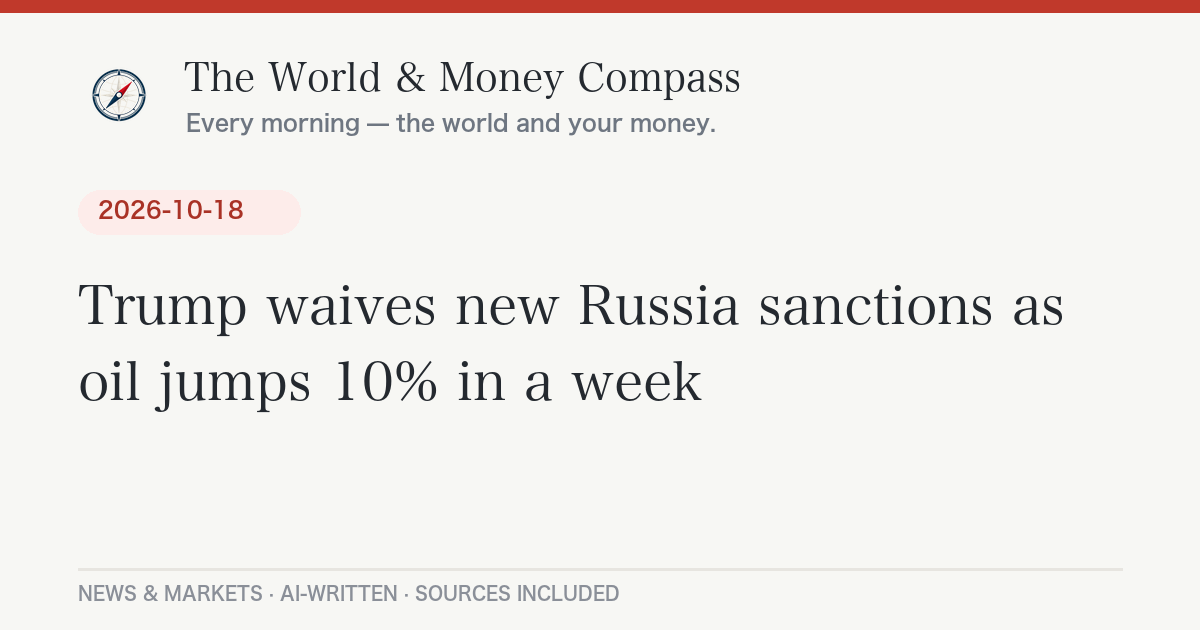
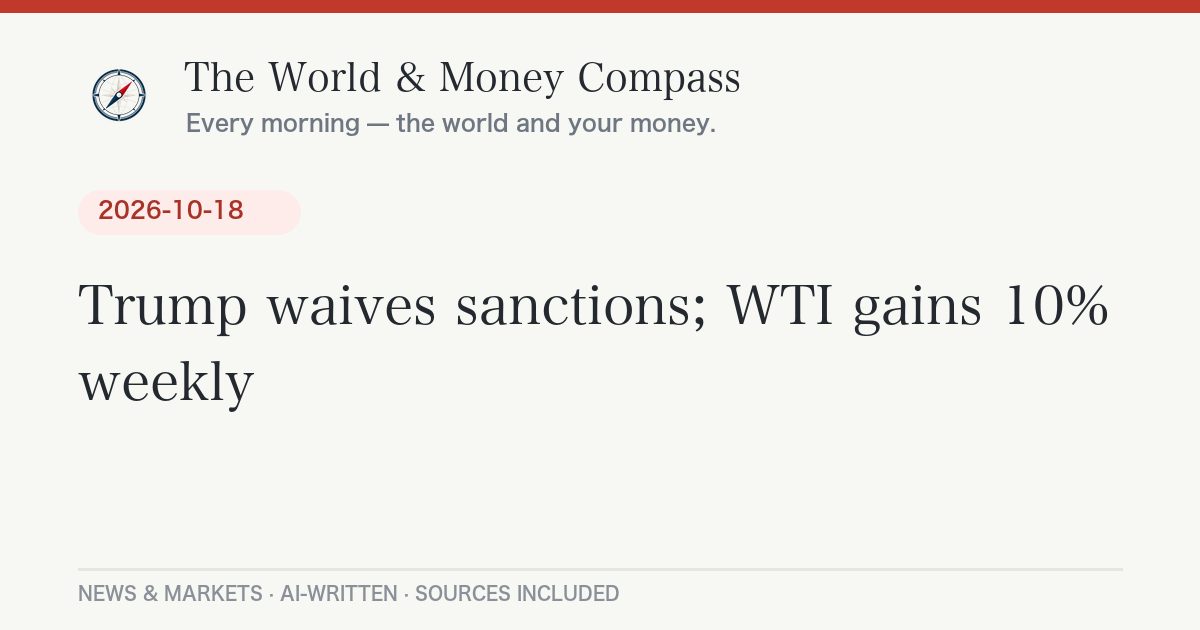
Daily briefing 2026-10-20

Changed region(s): [[0.37, 0.4524, 0.925, 0.5429], [0.0617, 0.573, 0.5858, 0.6635]]

diff --git a/_posts/2026-10-20-daily-briefing.md b/_posts/2026-10-20-daily-briefing.md
@@ -1,0 +1,112 @@
+---
+layout: post
+lang: ja
+title: "フーシ派がサウジ石油施設攻撃を主張、WTI103ドル台に上昇｜10月20日のニュースとお金"
+date: 2026-10-20 07:42:06 +0900
+categories: [ニュース, 経済]
+headline: "フーシ派がサウジ石油施設攻撃を主張、WTI103ドル台に上昇"
+permalink: /2026/10/20/daily-briefing/
+---
+
+## 今日のポイント
+
+イエメンの武装組織フーシ派が、サウジアラビアの石油施設や空港を攻撃したと主張し、原油価格が再び上がりました。一方で米国では、先週大きく売られたハイテク株が買い戻され、ナスダックが1%を超えて上昇しました。「原油の不安」と「AI株の持ち直し」が同時に進んだ一日です。
+
+## 今日の羅針盤（Compass Insight）
+
+いまの相場を一言で表すなら「原油が上がると、金利も上がる」という連鎖です。原油高は物価を押し上げるため、市場は米国の利下げが遠のくと考え、米10年債利回りは[5.14%台](https://zai.diamond.jp/articles/-/497526)まで上がりました。米国の金利が上がるとドルが買われやすく、ドル円は[158.50円](https://zai.diamond.jp/articles/-/497526)まで円安が進んでいます。
+
+家計にとっては、原油高と円安が重なる点に注意が必要です。どちらもガソリン代や電気・ガス代、輸入食品の値段を押し上げる方向に働きます。日本でも長期金利が[2.9%台](https://www.nikkei.com/markets/currencies/)にあり、固定型の住宅ローン金利にも上向きの圧力がかかりやすい状況です。さらに高市首相は消費減税の財源について[「国債発行を否定するものではない」](https://www.jiji.com/jc/article?k=2026101900098&g=pol)と答弁しており、国の借金が増えるかどうかも金利の行方に関わってきます。
+
+短期的には、サウジの石油施設の被害が実際にどの程度なのかと、来週予定される米国と日本の金融政策の発表に注目です。中長期では、AI関連への巨額投資が本当に利益に結びつくのか、市場の評価が揺れ動く状態が続く可能性があります。値動きの大きい相場では、一日の上げ下げに振り回されず、家計の固定費や資産の配分を見直す機会と捉えるのも一つの考え方です。
+
+## 今日のニュース
+
+### 日本
+
+- 高市首相は19日の参院予算委員会で、消費減税の財源について「国債発行額を適切にコントロールする。[国債発行を否定するものではない](https://www.jiji.com/jc/article?k=2026101900098&g=pol)」と述べました。消費減税そのものの方針は維持するとしています。
+- 靖国神社の秋季例大祭で、井林国交相が[参拝しました](https://www.jiji.com/jc/article?k=2026101900165&g=pol&m=rss)。高市首相は参拝を見送り、私費で玉串料を奉納しました。
+- 18日投開票の横浜市長選は、無所属新人で弁護士の原沢敦美氏が[初当選](https://shin-yoko.net/2026/10/19/election_2026-10/)しました。前市長のパワーハラスメント認定による辞職に伴う選挙でした。
+
+### 世界
+
+- フーシ派は19日、サウジアラビア西部ヤンブーのアラムコ施設や、リヤドとアブハの空港、南部ハミス・ムシャイトの軍事基地を[攻撃したと主張](https://www.middleeasteye.net/live-blog/live-blog-update/houthis-say-they-targeted-saudi-airports-energy-and-military-sites)しました。被害の独立した確認はまだ取れていません。10月上旬からサウジの空港への攻撃が続いており、[少なくとも20人が死亡](https://en.wikipedia.org/wiki/October_2026_Houthi_attacks_on_Saudi_Arabian_airports)するなど、多くの死傷者が出ています。
+- ウクライナがロシア第2の都市サンクトペテルブルクを無人機で大規模に攻撃し、ロシア側は[石油ターミナルとデータセンターが被弾した](https://www.euronews.com/2026/10/19/europe-today-france-counts-cost-of-violence-as-ukraine-hits-st-petersburg-leningrad)と説明しています。
+- ウクライナでは、米国製防空システム「パトリオット」の迎撃ミサイルが不足しているとの報道があり、[米国側が供給を止めているのではないかという懸念](https://kyivindependent.com/its-significant-ukraine-fears-us-is-withholding-allied-funded-air-defense-supplies-to-pressure-kyiv/)も出ています。
+
+### アメリカ
+
+- トランプ大統領が対ロシア制裁を一部見送った判断をめぐり、ベッセント財務長官は「[解除したのはディーゼルの禁輸だけ](https://thehill.com/homenews/administration/6156573-bessent-refutes-sanctions-relief)」と説明しました。トランプ氏は、ロシアを交渉の席から遠ざけないためだと[擁護しています](https://oilprice.com/Geopolitics/Europe/Trump-Defends-Russia-Sanctions-Waiver-as-Rift-With-Ukraine-Deepens.html)。
+- 19日の米国株は、ナスダック総合指数が[1.11%上昇](https://www.tradingkey.com/analysis/stocks/us-stocks/262224387-us-stock-market-close-nasdaq-rise-memory-micron-sandisk-tradingkey)し、先週のAI株の大幅安から持ち直しました。ダウは小幅に下落しました。
+- 10月の米住宅市場指数（NAHB）は[29](https://zai.diamond.jp/articles/-/497526)と予想の31を下回り、高い金利が住宅市場の重荷になっている様子がうかがえます。
+
+### ヨーロッパ
+
+- フランスでは週末、物価高に抗議するデモの一部が暴徒化し、[ここ数年で最悪の騒乱](https://www.euronews.com/2026/10/19/europe-today-france-counts-cost-of-violence-as-ukraine-hits-st-petersburg-leningrad)となりました。ルコルニュ首相は19日に危機対応の会議を開き、一部地域での夜間外出制限を地方当局に求めました。
+- アルバニアの首都ティラナでも18日、反政府デモが[暴力的な衝突](https://www.euronews.com/2026/10/19/europe-today-france-counts-cost-of-violence-as-ukraine-hits-st-petersburg-leningrad)に発展しました。生活費や住宅費への不満による抗議は欧州各地に広がっています。
+- EUの駐ウクライナ大使は、キーウが「[本当の意味での最前線の都市になった](https://www.euronews.com/2026/10/19/kyiv-has-become-a-true-frontline-city-eu-ambassador-to-ukraine-tells-euronews)」と述べ、ロシアの攻撃の激しさを訴えました。
+
+## 経済とお金の動き
+
+### 世界の経済と原油・相場
+
+表は10月19日（月）の終値と前営業日比です。
+
+| 指標 | 終値 | 前日比 |
+|---|---|---|
+| ダウ平均 | [5万1966.03ドル](https://www.tradingkey.com/analysis/stocks/us-stocks/262224387-us-stock-market-close-nasdaq-rise-memory-micron-sandisk-tradingkey) | <span class="chg-down">-36.38ドル（-0.07%）</span> |
+| S&P500 | [7690.73](https://www.tradingkey.com/analysis/stocks/us-stocks/262224387-us-stock-market-close-nasdaq-rise-memory-micron-sandisk-tradingkey) | <span class="chg-up">+31.29（+0.41%）</span> |
+| ナスダック総合 | [2万6430.89](https://www.tradingkey.com/analysis/stocks/us-stocks/262224387-us-stock-market-close-nasdaq-rise-memory-micron-sandisk-tradingkey) | <span class="chg-up">+290.85（+1.11%）</span> |
+| 日経平均株価 | [6万4916.70円](https://www.nikkei.com/article/DGXZQOFL1941S0Z11C26A0000000/) | <span class="chg-down">-407.59円（-0.62%）</span> |
+| WTI原油 | [103.66ドル/バレル](https://investrade.com/market-review-october-19-2026) | <span class="chg-up">+2.25ドル（+2.22%）</span> |
+| 北海ブレント原油 | [109.55ドル/バレル](https://investrade.com/market-review-october-19-2026) | <span class="chg-down">-0.31ドル（-0.28%）</span> |
+| ドル円（NY終値） | [158.50円](https://zai.diamond.jp/articles/-/497526) | <span class="chg-up">+0.48円（円安）</span> |
+| 米10年債利回り | [5.14%](https://investrade.com/market-review-october-19-2026) | <span class="chg-up">+0.042%</span> |
+
+※ドル円のECB基準レートは[158.24円](https://api.frankfurter.app/latest?from=USD&to=JPY)（10月19日基準）。
+
+原油は、フーシ派によるサウジの石油施設への攻撃の主張を受けて、WTIが2%を超えて上がりました。ただしブレントは小幅に下がっており、米国の対ロシア制裁の見送りでロシア産原油の供給が増えるという見方も、上値を抑える材料になっています。中東での攻撃とロシアのエネルギー施設への攻撃が続く限り、供給面の不安は簡単には消えそうにありません。
+
+### アメリカの経済
+
+米国株はハイテク株が主導して反発しました。バンク・オブ・アメリカがメモリー半導体株の評価は「底を打った」とするリポートを出し、メモリー関連が[大きく上げました](https://www.tradingkey.com/analysis/stocks/us-stocks/262224387-us-stock-market-close-nasdaq-rise-memory-micron-sandisk-tradingkey)。フィラデルフィア半導体指数も1.61%上昇しています。一方で、米10年債利回りが5%を超える高い水準にあることは、住宅や企業の借り入れにとって重荷です。米連邦準備制度理事会（FRB）は来週の会合で[金利を据え置く](https://investrade.com/market-review-october-19-2026)との見方が中心です。
+
+### 日本の経済
+
+日経平均は、先週末の米国でのAI・半導体株安を引き継いで[407円安](https://www.nikkei.com/article/DGXZQOFL1941S0Z11C26A0000000/)となりました。朝方は下げ幅が1400円を超え、取引時間中として約1カ月ぶりに6万4000円を割り込みましたが、その後は買い戻しで下げ幅を縮めています。TOPIXは小幅に上昇しており、半導体株以外には買いが入りました。為替は158円台の円安水準で、市場では[158円台後半から上では円買い介入への警戒](https://www.gaitame.com/media/entry/2026/10/19/163500)も意識されています。今週は日本の9月の消費者物価指数の発表も控えており、[2%超えが予想](https://www.gaitame.com/media/entry/2026/10/19/163500)されています。
+
+## 今日の注目銘柄・セクター
+
+- **メモリー半導体（ウエスタンデジタル、サンディスク、マイクロン）**：バンク・オブ・アメリカが評価は底を打ったとの見方を示し、ウエスタンデジタルが[6.09%、マイクロンが2.97%上昇](https://www.tradingkey.com/analysis/stocks/us-stocks/262224387-us-stock-market-close-nasdaq-rise-memory-micron-sandisk-tradingkey)しました。先週のAI株安からの反発をけん引しました。
+- **コアウィーブ（AIインフラ）**：ゴールドマン・サックスが投資判断を引き上げた一方、目標株価は[139ドルから106ドルに引き下げ](https://investrade.com/market-review-october-19-2026)ました。資金調達への不安から8月以降で大きく下げており、東京市場でもAI投資への懸念を呼ぶ材料として[意識されました](https://www.nikkei.com/article/DGXZQOFL1941S0Z11C26A0000000/)。
+- **日本の半導体関連（東京エレクトロン、アドバンテスト）**：米国の半導体株安を受けて、日経平均の[下げを主導](https://www.nikkei.com/article/DGXZQOFL1941S0Z11C26A0000000/)しました。ファーストリテイリングも下落しました。
+- **商社・内需株（豊田通商、KDDI、イオン）**：半導体株が売られる中で、商社株や内需株には[買いが入りました](https://www.nikkei.com/article/DGXZQOFL1941S0Z11C26A0000000/)。
+
+*※特定銘柄の売買を推奨するものではありません。投資判断はご自身の責任で。*
+
+## まとめ：注目の3つ
+
+1. **サウジの石油施設の被害の実態**：フーシ派の主張がどこまで事実か。被害が大きければ原油高が長引き、ガソリン代や光熱費に響く可能性があります。
+2. **米国の長期金利5%台の行方**：来週のFRBの会合を前に、金利の上昇が続くかどうか。円安や住宅ローン金利にもつながります。
+3. **消費減税の財源論議**：国債発行の増加が意識されると、日本の長期金利の上昇要因になりえます。今後の国会答弁に注目です。
+
+---
+<div class="post-sources" markdown="1">
+
+**出典：**
+- [日本経済新聞：東証大引け 日経平均は反落 米半導体安で売り 押し目買い支え](https://www.nikkei.com/article/DGXZQOFL1941S0Z11C26A0000000/)
+- [TradingKey：US Stocks Close: Nasdaq Rises 1.1% as Tech Stocks Rebound](https://www.tradingkey.com/analysis/stocks/us-stocks/262224387-us-stock-market-close-nasdaq-rise-memory-micron-sandisk-tradingkey)
+- [Investrade：Market Review: October 19, 2026](https://investrade.com/market-review-october-19-2026)
+- [ザイFX！：ニューヨーク外国為替市場概況・19日 ドル円、上昇](https://zai.diamond.jp/articles/-/497526)
+- [時事通信：高市首相、減税財源「国債否定せず」](https://www.jiji.com/jc/article?k=2026101900098&g=pol)
+- [時事通信：井林国交相が靖国参拝 高市首相は玉串料奉納](https://www.jiji.com/jc/article?k=2026101900165&g=pol&m=rss)
+- [新横浜新聞：横浜市長に原沢敦美氏](https://shin-yoko.net/2026/10/19/election_2026-10/)
+- [Euronews：Europe Today: France counts cost of violence as Ukraine hits St Petersburg](https://www.euronews.com/2026/10/19/europe-today-france-counts-cost-of-violence-as-ukraine-hits-st-petersburg-leningrad)
+- [The Hill：Bessent says there was no sanctions relief for Russia after US diesel deal](https://thehill.com/homenews/administration/6156573-bessent-refutes-sanctions-relief)
+- [Middle East Eye：Houthis say they targeted Saudi airports, energy and military sites](https://www.middleeasteye.net/live-blog/live-blog-update/houthis-say-they-targeted-saudi-airports-energy-and-military-sites)
+- [Wikipedia：October 2026 Houthi attacks on Saudi Arabian airports](https://en.wikipedia.org/wiki/October_2026_Houthi_attacks_on_Saudi_Arabian_airports)
+- 市場データ: [frankfurter API](https://api.frankfurter.app/) ／ 各社報道（Yahoo Finance APIはレート制限のため不使用）
+
+*本記事は公開情報をもとに作成しています。*
+
+</div>

diff --git a/_posts/2026-10-20-daily-briefing-en.md b/_posts/2026-10-20-daily-briefing-en.md
@@ -1,0 +1,55 @@
+---
+layout: post
+lang: en
+title: "Oil jumps as Houthis claim strikes on Saudi Aramco sites; Nasdaq rebounds — October 20, 2026"
+date: 2026-10-20 07:42:06 +0900
+headline: "Oil jumps as Houthis claim strikes on Saudi Aramco sites; Nasdaq rebounds"
+permalink: /2026/10/20/daily-briefing/
+---
+
+## Top U.S. Stories
+
+- **Oil climbs on Gulf attack claims.** WTI crude settled at [$103.66 a barrel, up 2.22%](https://investrade.com/market-review-october-19-2026), after Yemen's Houthis claimed they hit [an Aramco facility in Yanbu, two Saudi airports and a military base](https://www.middleeasteye.net/live-blog/live-blog-update/houthis-say-they-targeted-saudi-airports-energy-and-military-sites). The claims have not been independently confirmed. Brent slipped 0.28% to $109.55.
+  *Why it matters:* Higher fuel costs keep inflation sticky and make rate cuts harder to justify.
+- **Tech rebounds after a rough week.** The Nasdaq rose [1.11% to 26,430.89](https://www.tradingkey.com/analysis/stocks/us-stocks/262224387-us-stock-market-close-nasdaq-rise-memory-micron-sandisk-tradingkey) and the S&P 500 gained 0.41%, while the Dow slipped 0.07%. Memory chipmakers led after a BofA note said valuations had "bottomed out."
+- **Treasury yields keep rising.** The 10-year yield climbed [4.2 basis points to 5.14%](https://investrade.com/market-review-october-19-2026), pushing the dollar up to [158.50 yen](https://zai.diamond.jp/articles/-/497526).
+  *Why it matters:* A 10-year yield above 5% feeds directly into mortgage and business borrowing costs. The Fed is widely expected to hold rates at next week's meeting.
+- **Mixed messages on Russia sanctions.** Treasury Secretary Scott Bessent said the only thing lifted was the [diesel embargo, not sanctions](https://thehill.com/homenews/administration/6156573-bessent-refutes-sanctions-relief), while President Trump [defended the waiver](https://oilprice.com/Geopolitics/Europe/Trump-Defends-Russia-Sanctions-Waiver-as-Rift-With-Ukraine-Deepens.html) as a way to keep Moscow at the negotiating table.
+- **Homebuilder mood sours.** The NAHB housing market index fell short of forecasts at [29 versus an expected 31](https://zai.diamond.jp/articles/-/497526) in October.
+
+## Compass Insight
+
+Monday showed how tightly oil and interest rates are now linked. Every new supply scare in the Gulf lifts crude, which raises inflation worries, which pushes the 10-year Treasury yield higher. At 5.14%, that yield is a real headwind for housing, as the weak homebuilder survey suggests. Tech's bounce is encouraging, but it came after the Nasdaq's [worst week since June](https://www.lanacion.com.ar/usa/how-major-us-stock-indexes-fared-friday-10162026-nid16102026/), so it looks more like relief than a new trend. In the short term, watch for independent damage reports from Saudi Arabia and the Fed's meeting next week. Over the longer run, the key question is whether heavy AI spending, including at debt-funded firms like CoreWeave, can earn returns that justify today's borrowing costs.
+
+## Markets
+
+- **Dow** 51,966.03 (-0.07%) / **S&P 500** 7,690.73 (+0.41%) / **Nasdaq** 26,430.89 (+1.11%) — [TradingKey](https://www.tradingkey.com/analysis/stocks/us-stocks/262224387-us-stock-market-close-nasdaq-rise-memory-micron-sandisk-tradingkey)
+- **WTI** $103.66 (+2.22%) / **Brent** $109.55 (-0.28%) — [Investrade](https://investrade.com/market-review-october-19-2026)
+- **Nikkei 225** closed at [64,916.70, down 0.62%](https://www.nikkei.com/article/DGXZQOFL1941S0Z11C26A0000000/), tracking Friday's U.S. chip sell-off.
+- **USD/JPY** 158.50 in New York; the ECB reference rate was [158.24](https://api.frankfurter.app/latest?from=USD&to=JPY) (Oct. 19).
+
+## Stocks in Focus
+
+- **Memory chips:** Western Digital rose [6.09%, SanDisk 5.53% and Micron 2.97%](https://www.tradingkey.com/analysis/stocks/us-stocks/262224387-us-stock-market-close-nasdaq-rise-memory-micron-sandisk-tradingkey) after BofA's upbeat note.
+- **CoreWeave:** Goldman upgraded the stock to Buy but cut its target to [$106 from $139](https://investrade.com/market-review-october-19-2026), citing concerns about financing its growth.
+- **Intel:** JPMorgan upgraded it to [Neutral from Underweight](https://investrade.com/market-review-october-19-2026).
+
+*Not a recommendation to buy or sell any security.*
+
+---
+<div class="post-sources" markdown="1">
+
+**Sources:**
+- [TradingKey: US Stocks Close — Nasdaq Rises 1.1% as Tech Stocks Rebound](https://www.tradingkey.com/analysis/stocks/us-stocks/262224387-us-stock-market-close-nasdaq-rise-memory-micron-sandisk-tradingkey)
+- [Investrade: Market Review, October 19, 2026](https://investrade.com/market-review-october-19-2026)
+- [The Hill: Bessent says there was no sanctions relief for Russia after US diesel deal](https://thehill.com/homenews/administration/6156573-bessent-refutes-sanctions-relief)
+- [OilPrice.com: Trump Defends Russia Sanctions Waiver as Rift With Ukraine Deepens](https://oilprice.com/Geopolitics/Europe/Trump-Defends-Russia-Sanctions-Waiver-as-Rift-With-Ukraine-Deepens.html)
+- [Middle East Eye: Houthis say they targeted Saudi airports, energy and military sites](https://www.middleeasteye.net/live-blog/live-blog-update/houthis-say-they-targeted-saudi-airports-energy-and-military-sites)
+- [AP via La Nación: How major US stock indexes fared Friday 10/16/2026](https://www.lanacion.com.ar/usa/how-major-us-stock-indexes-fared-friday-10162026-nid16102026/)
+- [Diamond ZAi FX: New York FX market summary, Oct. 19](https://zai.diamond.jp/articles/-/497526)
+- [Nikkei: Tokyo close, Oct. 19](https://www.nikkei.com/article/DGXZQOFL1941S0Z11C26A0000000/)
+- Market data: [frankfurter API](https://api.frankfurter.app/)
+
+</div>
+
+*Auto-generated and AI-written. Not investment advice.*
